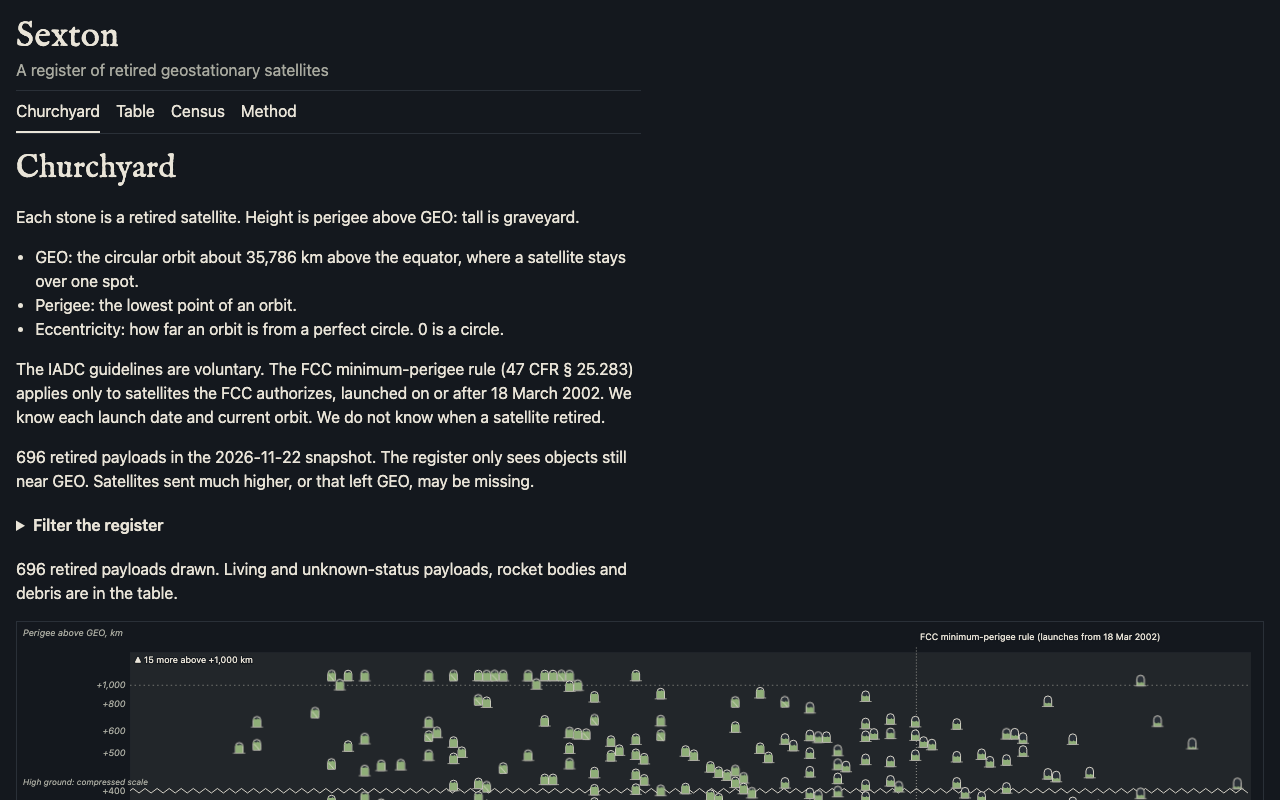
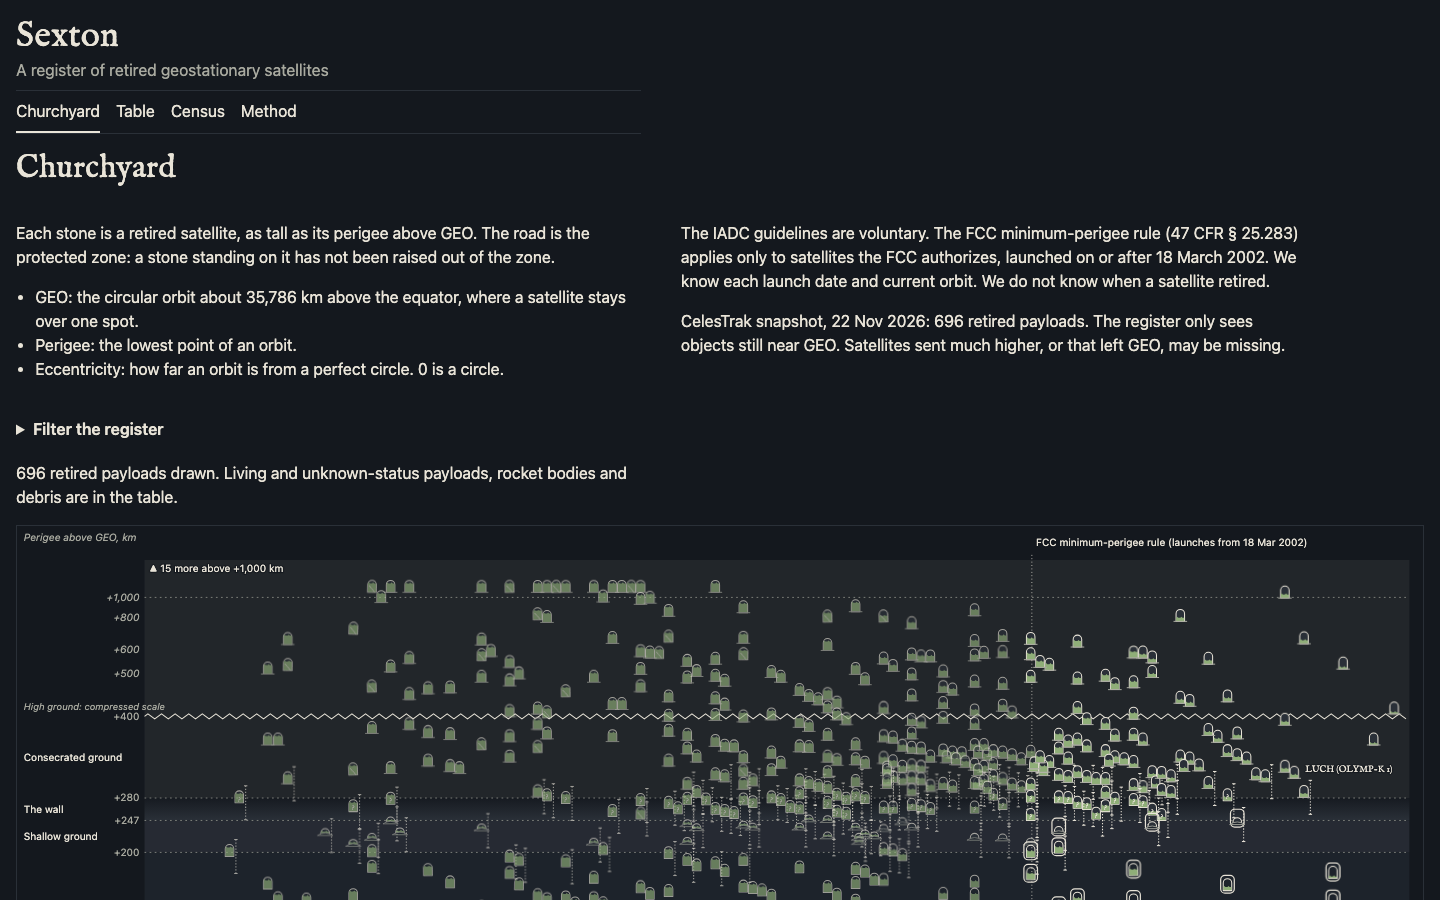
Retake churchyard screenshot from the deployed site; journal

diff --git a/docs/kiro-journal.md b/docs/kiro-journal.md
@@ -64,6 +64,10 @@ Third test, 2026-11-22 (census hook, Task 19):
 2026-11-24: Polish Step 6 done. LICENSE: GitHub's API reports MIT (the holder line still reads "Org", for the owner to change). New THIRD_PARTY.md (9 direct dependencies, 189 packages by licence, the CelesTrak usage policy at https://celestrak.org/usage-policy.php, the font, cited texts). .kiro/ is tracked and not ignored (git check-ignore, the global excludes file at ~/.config/git/ignore holds one unrelated line). README top is now problem, audience, live link, screenshot, headline number (131, 36 of 131, 565 of 696, and the validation line), Built with Kiro, then the census; a test ties those README numbers to the engine. Links: every README, docs, case-file and copy.ts link returned 200 or exists, except six CelesTrak documentation pages that were not rechecked because requests to them timed out and I stopped rather than retry; CelesTrak data endpoints were never requested by the check.
 2026-11-24: Polish Step 7 done. Drafts for the owner to rewrite: docs/video-shot-list.md (2:45 storyboard with what to have open on each shot) and docs/devpost-facts.md (bullet facts with sources, Kiro feature counts, the journal's surprises, prior work and the difference). KeepTrack's graveyard page was read once; only what that page says is claimed. The shot list tells the owner not to film a CI run that has not happened.
 2026-11-24: Polish Step 8 done. Wrote docs/polish-report.md (changes by step with commit hashes, tests 734 to 771, property-test calls 40 to 47, what could not be done, and the owner's checklist). Surprise: a command that appeared to time out had in fact finished late and committed, which left a duplicate Step 6 commit and journal line; the duplicate line was removed, the commit stays in history. Nothing is pushed.
+2026-11-24: LICENSE holder changed from Org to 4KInc; npm test passed (771 tests); commit b2341c4.
+2026-11-24: Pushed main (aeaa394 to b2341c4). Deploy to GitHub Pages run 45350827998 succeeded (build 29 s, deploy 8 s), watched with gh run watch.
+2026-11-24: Live check on https://4kinc.github.io/sexton/ at 1440, 1024 and 390 px, headless Chrome: churchyard (caption, legend with faint, ring and name entries, 36 rings, 696 stones, snapshot label), tooltip on hover and on focus with Escape closing it, census (131 of 696 headline, 36 of 131, 565 of 696, validation 27 of 45 against 70% to 95%, no Roberts figure), ledger 27378 loaded directly (verdict first, Cite this with the permalink), method page: all pass, no console errors or warnings on any route, no sideways scroll. Not checked: VoiceOver, a real phone, Safari, Firefox.
+2026-11-24: Retook docs/images/churchyard.png from the deployed site at 1440×900 (283 KB, not ignored), showing the caption, the two-column intro, rings and the legend-backed marks.
 Correction, S1 session: the hooks do fire. After each file-tool edit of `docs/methodology.md` the chat UI showed "Run Command Hook — Language check on save", and Kiro's log has two `ContextualHookInvoked` entries, at 23:55:39 and 23:55:41. The hook's result is not returned to the agent. That is why the agent saw no output in every test above and wrote "not observed". Those tests show what the agent could see. They do not show that the hooks did not run. The user's chat UI and the log are the places to look.
 ## What surprised us
 - The hook files loaded (4 read, 4 registered) but stayed disabled until each had `"enabled": true`.
